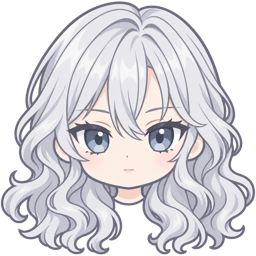
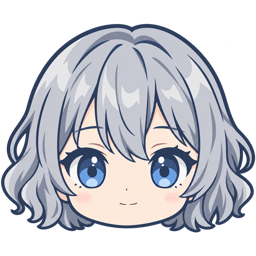
feat: two more characters, a redrawn one, and a way to take them in
himari and mio join. yuki is redrawn: the first attempt put a pale grey outline
around near-white hair, which left a smudge on a dark bar and nothing at all on
a light wallpaper. Naming the outline colour outright and pulling the hair off
white towards grey fixed it. Saying what the outline is *for* turned out to
carry further than saying what shade it should be.

Tools/add-character.sh takes one generated PNG all the way: squared, filed,
named, added to the landing page in both languages. It also writes the face at
its real menu bar size over a dark bar and a light wallpaper, which is where a
pale outline gives itself away — before it is in the app rather than after.

diff --git a/Tools/shrink/main.swift b/Tools/shrink/main.swift
@@ -1,0 +1,76 @@
+// 絵をメニューバーの実寸まで縮めて、明るい地と暗い地の両方に並べる。
+//
+//   swiftc -O -target arm64-apple-macos14.0 -framework AppKit \
+//     -o build/shrink Tools/shrink/main.swift
+//   ./build/shrink Resources/Characters/yuki.png docs/preview-yuki.png
+//
+// 輪郭が薄いと、暗いバーに沈むか明るい壁紙に溶けるかのどちらかで潰れる。
+// 縮めた姿を等倍と拡大で並べておけば、置く前に分かる。
+import AppKit
+
+guard CommandLine.arguments.count >= 3 else {
+    print("使い方: shrink <入力.png> <出力.png>")
+    exit(1)
+}
+
+let input = CommandLine.arguments[1]
+let output = CommandLine.arguments[2]
+
+guard let image = NSImage(contentsOfFile: input) else {
+    print("読めませんでした: \(input)")
+    exit(1)
+}
+
+// メニューバーの項目の高さ。Retina なので実画素は倍。
+let side = 22
+let scale = 2
+let actual = side * scale
+// 等倍の隣に、粗が見えるよう拡大したものを置く
+let zoom = 4
+let padding = 12
+let backgrounds: [(name: String, color: NSColor)] = [
+    ("暗", NSColor(calibratedWhite: 0.16, alpha: 1)),
+    ("明", NSColor(calibratedRed: 0.42, green: 0.55, blue: 0.63, alpha: 1)),
+]
+
+// 行の高さは拡大したほうに合わせ、等倍のものはその中で縦中央に置く
+let rowHeight = actual * zoom + padding * 2
+let width = padding * 3 + actual + actual * zoom
+let height = rowHeight * backgrounds.count
+
+guard let canvas = NSBitmapImageRep(bitmapDataPlanes: nil,
+                                    pixelsWide: width, pixelsHigh: height,
+                                    bitsPerSample: 8, samplesPerPixel: 4,
+                                    hasAlpha: true, isPlanar: false,
+                                    colorSpaceName: .deviceRGB,
+                                    bytesPerRow: 0, bitsPerPixel: 0)
+else {
+    print("画布を作れませんでした")
+    exit(1)
+}
+
+NSGraphicsContext.saveGraphicsState()
+NSGraphicsContext.current = NSGraphicsContext(bitmapImageRep: canvas)
+NSGraphicsContext.current?.imageInterpolation = .high
+
+for (index, background) in backgrounds.enumerated() {
+    let y = height - rowHeight * (index + 1)
+    background.color.setFill()
+    NSRect(x: 0, y: y, width: width, height: rowHeight).fill()
+
+    let centred = y + (rowHeight - actual) / 2
+    image.draw(in: NSRect(x: padding, y: centred, width: actual, height: actual),
+               from: .zero, operation: .sourceOver, fraction: 1)
+    image.draw(in: NSRect(x: padding * 2 + actual, y: y + padding,
+                          width: actual * zoom, height: actual * zoom),
+               from: .zero, operation: .sourceOver, fraction: 1)
+}
+
+NSGraphicsContext.restoreGraphicsState()
+
+guard let data = canvas.representation(using: .png, properties: [:]) else {
+    print("書き出せませんでした")
+    exit(1)
+}
+try data.write(to: URL(fileURLWithPath: output))
+print("\(output) に \(side) ポイントの見本を書きました")

diff --git a/docs/characters.md b/docs/characters.md
@@ -62,9 +62,20 @@ you have to go on.
 | Purple | Short braids on both sides | Sleepy, eyes half closed |
 | Orange | Short, flicked ends | Smug little grin |
 | Black | High twintails | Startled, mouth open |
-| Silver | Long waves | Composed, mouth closed |
+| Silver | Loose waves, above the shoulder | Composed, looking straight out |
+| Yellow | Ponytail, bangs swept aside | Laughing with an open mouth |
+| Teal | Bob | Pleased with itself, looking sideways |
 
-Silver's outline is too weak; it is the one worth redrawing.
+Silver was redrawn. The first attempt put a pale grey outline around near-white hair,
+which left nothing to see at menu bar size — a white smudge on a dark bar, and gone
+entirely on a light wallpaper. Two changes fixed it: name the outline colour outright
+(`濃い青灰色`) instead of asking for something darker than the hair, and pull the hair
+itself off white towards grey. Say what the outline is for, too — "so it does not
+disappear on a light background" — because the model holds a stated purpose better
+than a stated shade.
+
+This is the one place worth departing from the fixed prompt above. Everything else in
+it stays put.
 
 ## Installing
 
